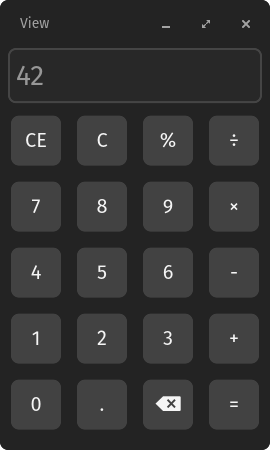
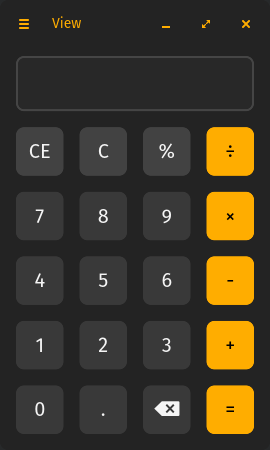
feat: add colors

diff --git a/src/app.rs b/src/app.rs
@@ -159,50 +159,50 @@ impl Application for Calculator {
                 widget::column::with_capacity(1)
                     .push(
                         widget::row::with_capacity(4)
-                            .push(button("CE", Message::Operator(Operator::ClearEntry)))
-                            .push(button("C", Message::Operator(Operator::Clear)))
-                            .push(button("%", Message::Operator(Operator::Modulus)))
-                            .push(button("÷", Message::Operator(Operator::Divide)))
+                            .push(image_button("CE", Message::Operator(Operator::ClearEntry)))
+                            .push(image_button("C", Message::Operator(Operator::Clear)))
+                            .push(image_button("%", Message::Operator(Operator::Modulus)))
+                            .push(suggested_button("÷", Message::Operator(Operator::Divide)))
                             .width(Length::Fill)
                             .height(Length::Fill)
                             .spacing(spacing.space_s),
                     )
                     .push(
                         widget::row::with_capacity(4)
-                            .push(button("7", Message::Number(7)))
-                            .push(button("8", Message::Number(8)))
-                            .push(button("9", Message::Number(9)))
-                            .push(button("×", Message::Operator(Operator::Multiply)))
+                            .push(standard_button("7", Message::Number(7)))
+                            .push(standard_button("8", Message::Number(8)))
+                            .push(standard_button("9", Message::Number(9)))
+                            .push(suggested_button("×", Message::Operator(Operator::Multiply)))
                             .width(Length::Fill)
                             .height(Length::Fill)
                             .spacing(spacing.space_s),
                     )
                     .push(
                         widget::row::with_capacity(4)
-                            .push(button("4", Message::Number(4)))
-                            .push(button("5", Message::Number(5)))
-                            .push(button("6", Message::Number(6)))
-                            .push(button("-", Message::Operator(Operator::Subtract)))
+                            .push(standard_button("4", Message::Number(4)))
+                            .push(standard_button("5", Message::Number(5)))
+                            .push(standard_button("6", Message::Number(6)))
+                            .push(suggested_button("-", Message::Operator(Operator::Subtract)))
                             .width(Length::Fill)
                             .height(Length::Fill)
                             .spacing(spacing.space_s),
                     )
                     .push(
                         widget::row::with_capacity(4)
-                            .push(button("1", Message::Number(1)))
-                            .push(button("2", Message::Number(2)))
-                            .push(button("3", Message::Number(3)))
-                            .push(button("+", Message::Operator(Operator::Add)))
+                            .push(standard_button("1", Message::Number(1)))
+                            .push(standard_button("2", Message::Number(2)))
+                            .push(standard_button("3", Message::Number(3)))
+                            .push(suggested_button("+", Message::Operator(Operator::Add)))
                             .width(Length::Fill)
                             .height(Length::Fill)
                             .spacing(spacing.space_s),
                     )
                     .push(
                         widget::row::with_capacity(4)
-                            .push(button("0", Message::Number(0)))
-                            .push(button(".", Message::Operator(Operator::Point)))
-                            .push(button("⌫", Message::Operator(Operator::Backspace)))
-                            .push(button("=", Message::Operator(Operator::Equal)))
+                            .push(standard_button("0", Message::Number(0)))
+                            .push(standard_button(".", Message::Operator(Operator::Point)))
+                            .push(standard_button("⌫", Message::Operator(Operator::Backspace)))
+                            .push(suggested_button("=", Message::Operator(Operator::Equal)))
                             .width(Length::Fill)
                             .height(Length::Fill)
                             .spacing(spacing.space_s),
@@ -383,7 +383,19 @@ impl Calculator {
     }
 }
 
-pub fn button(label: &str, message: Message) -> Element<Message> {
+pub fn standard_button(label: &str, message: Message) -> Element<Message> {
+    button(label, message, theme::Button::MenuItem)
+}
+
+pub fn suggested_button(label: &str, message: Message) -> Element<Message> {
+    button(label, message, theme::Button::Suggested)
+}
+
+pub fn image_button(label: &str, message: Message) -> Element<Message> {
+    button(label, message, theme::Button::Standard)
+}
+
+pub fn button(label: &str, message: Message, style: theme::Button) -> Element<Message> {
     widget::button(
         widget::container(widget::text(label).size(20.0))
             .center_x()
@@ -391,6 +403,7 @@ pub fn button(label: &str, message: Message) -> Element<Message> {
             .width(Length::Fill)
             .height(Length::Fill),
     )
+    .style(style)
     .width(Length::Fill)
     .height(Length::Fill)
     .on_press(message)
